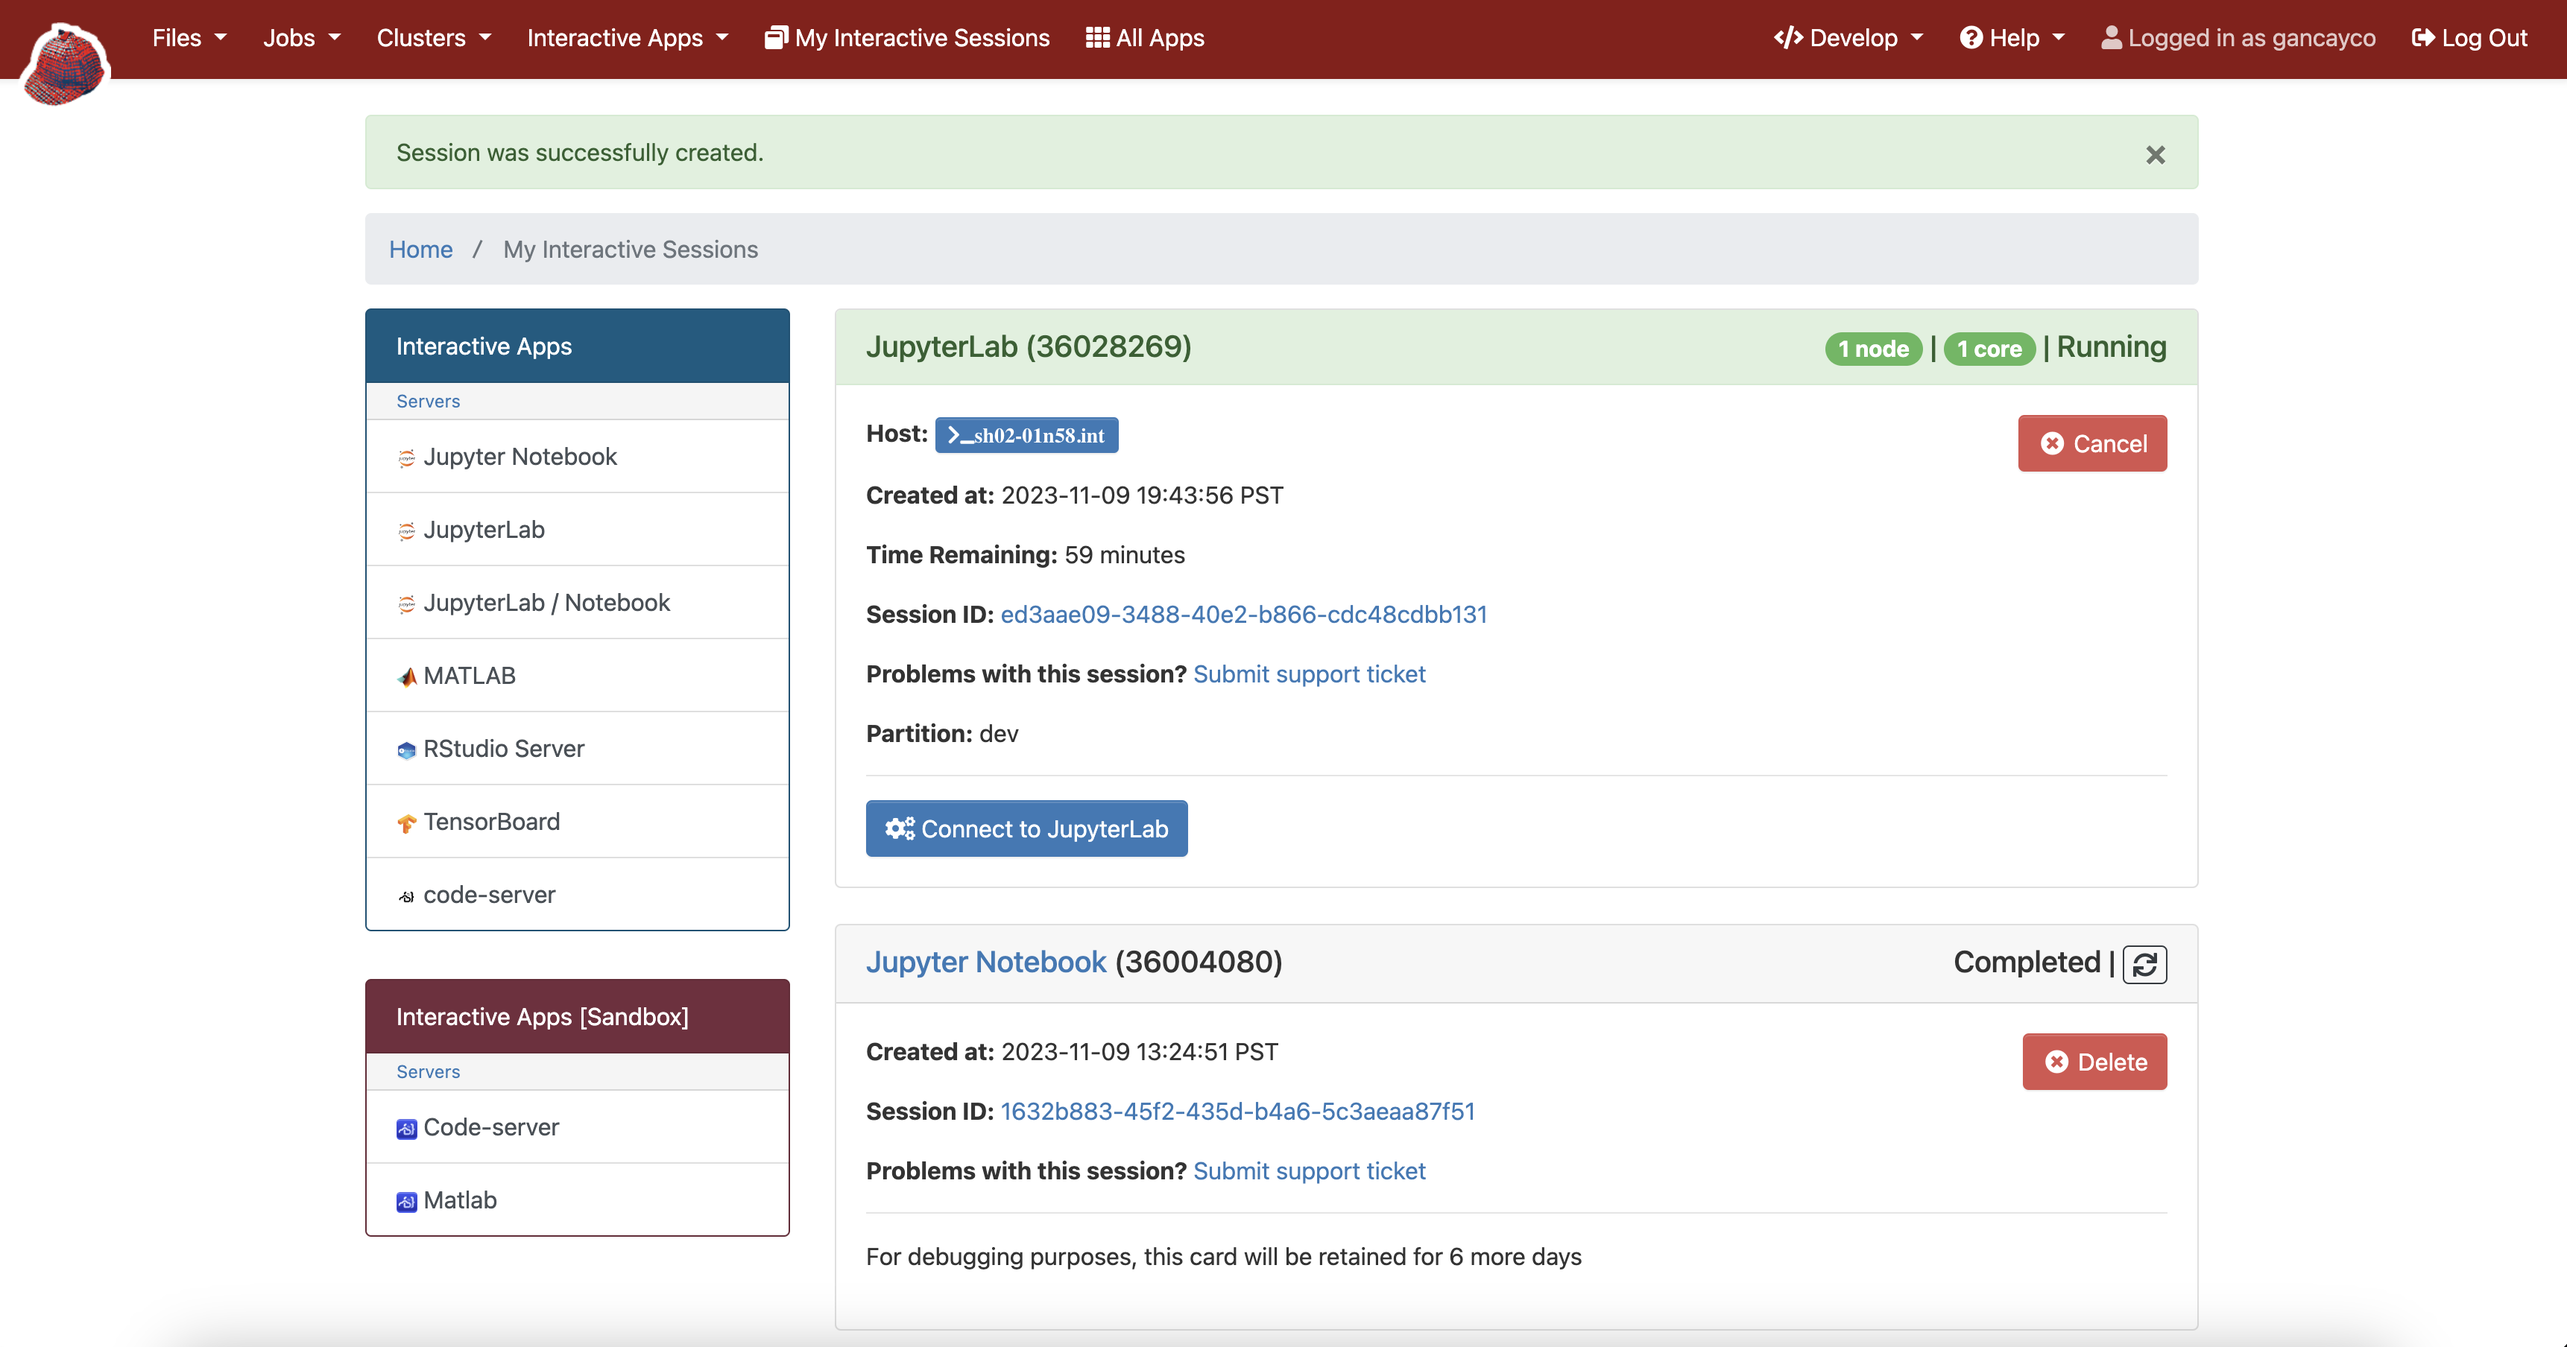
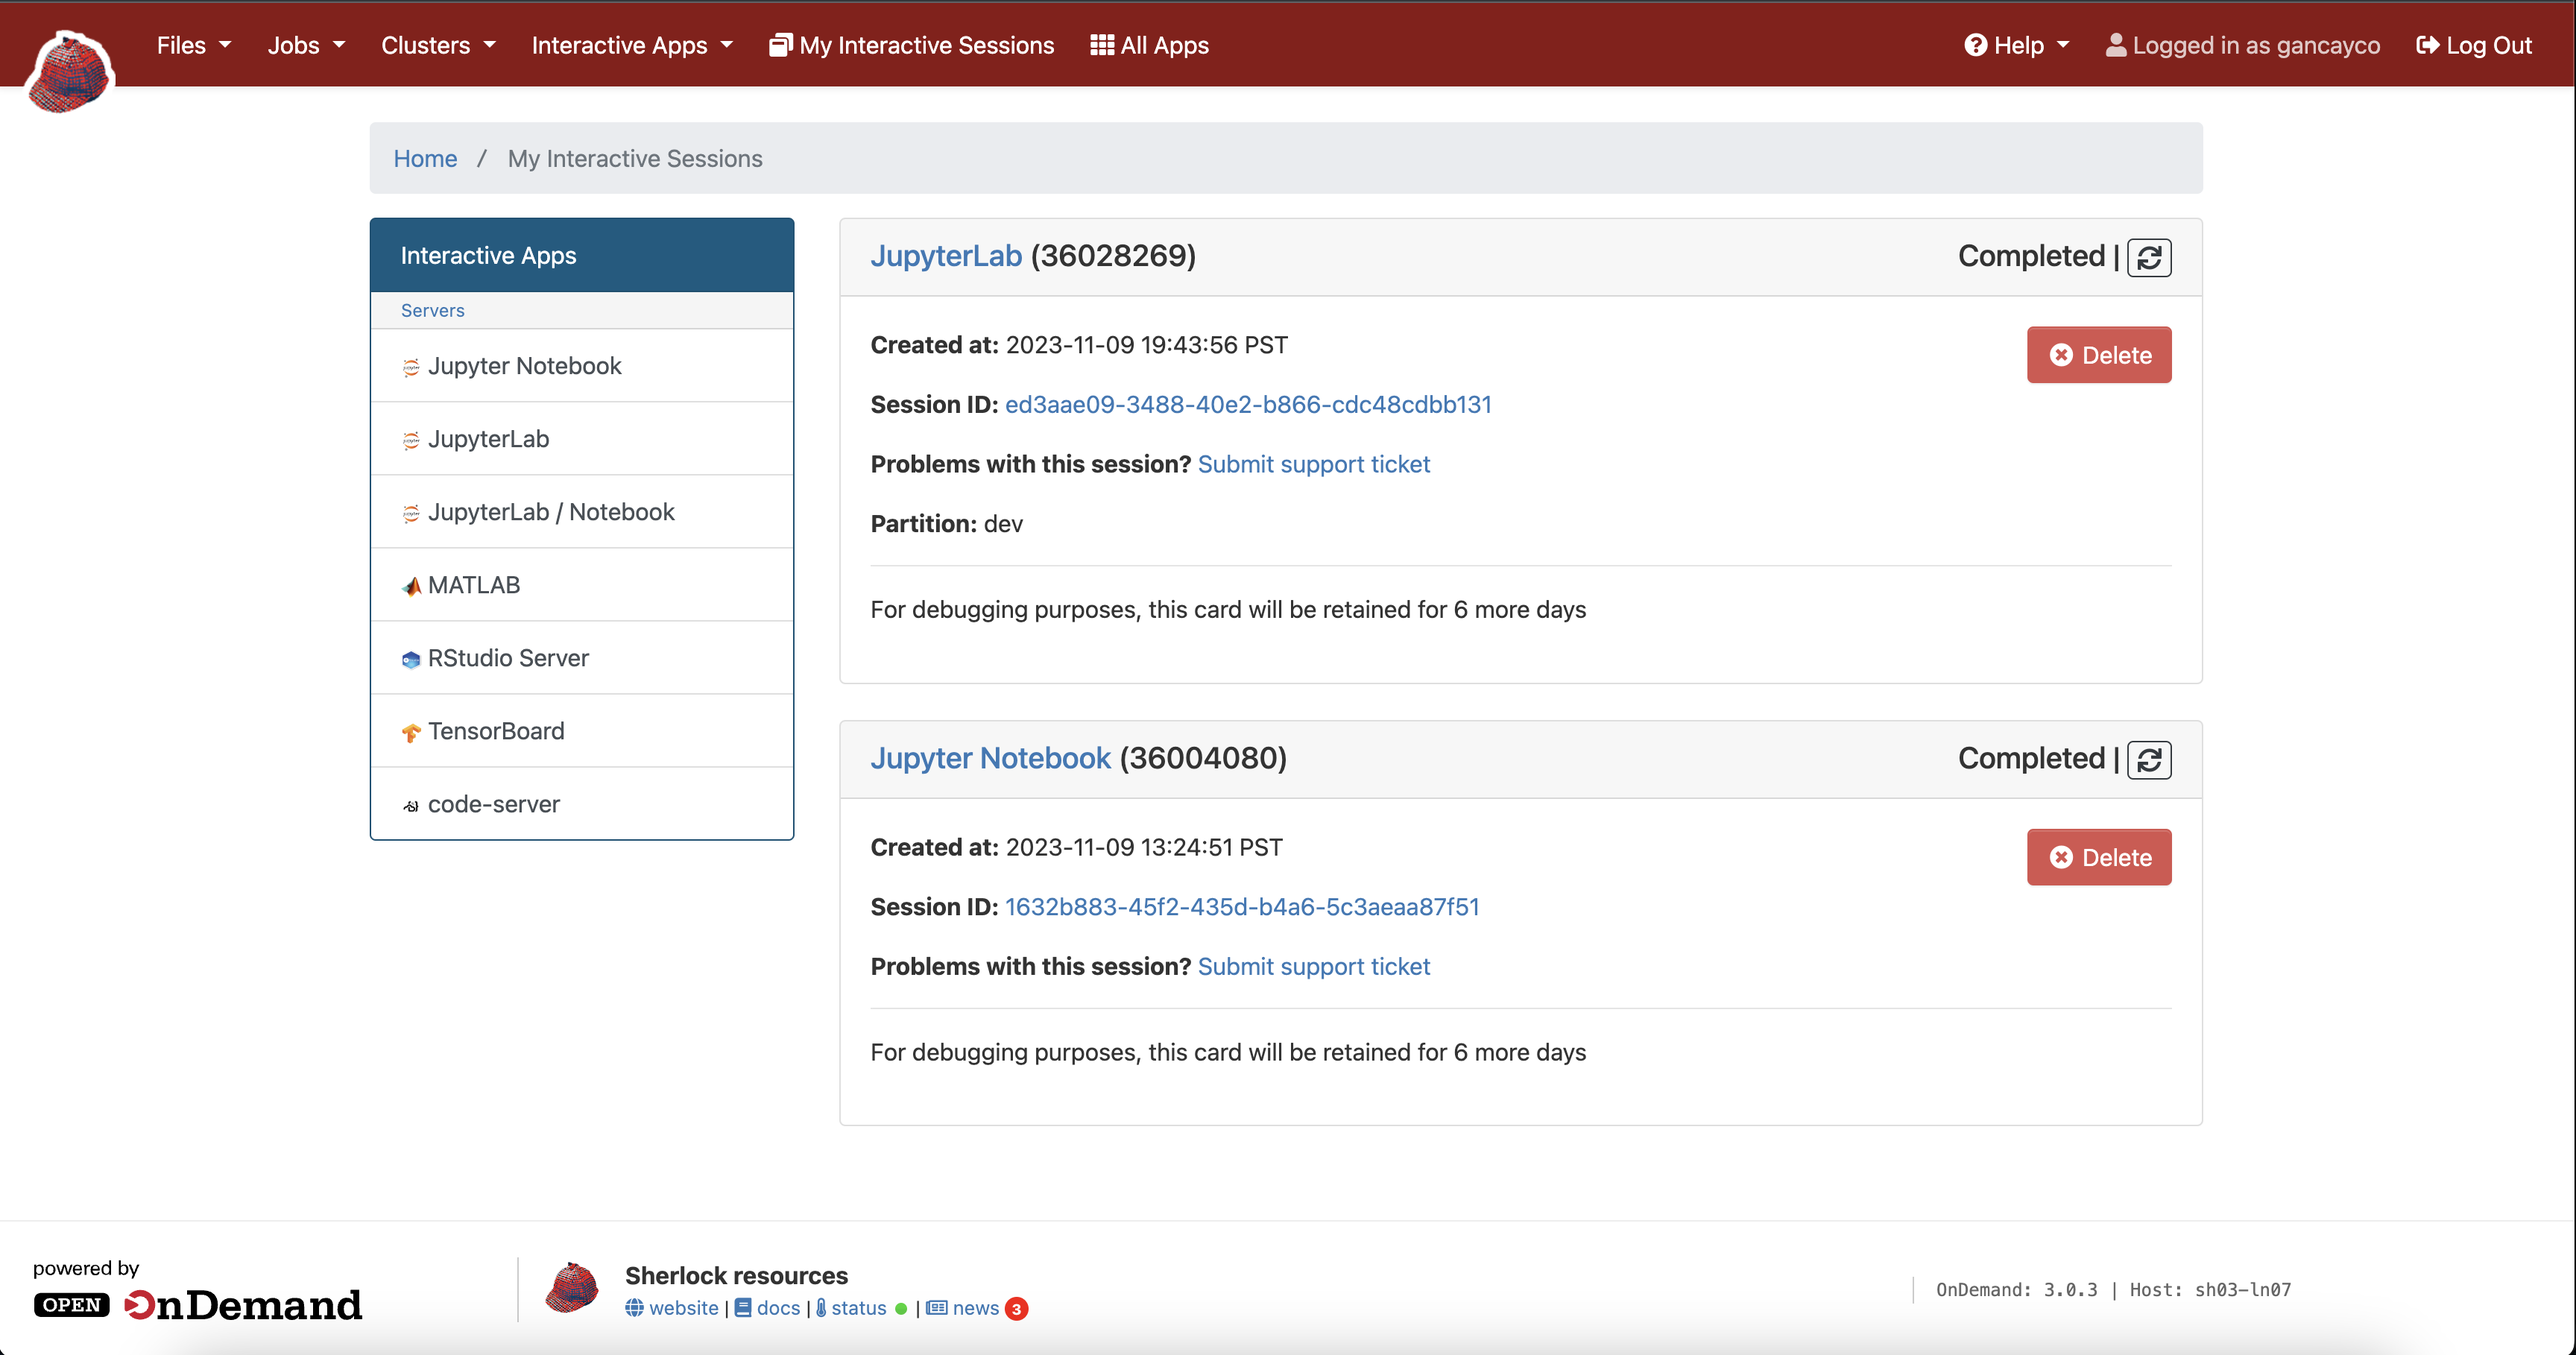
started jupyterlab and matlab ood documentation

diff --git a/src/docs/user-guide/ondemand.md b/src/docs/user-guide/ondemand.md
@@ -212,7 +212,7 @@ Sherlock OnDemand.
 !!! warning "Some preliminary setup may be required"
 
     Before running your first Jupyter Notebook with `IJulia`, you'll need to
-    run the following steps (this only need to be done once):
+    run the following steps (this only needs to be done once):
 
     ```
     $ ml julia
@@ -248,7 +248,7 @@ To start a Jupyter session from Sherlock OnDemand:
    Clusters.
    ![ood_jup_notebook](images/ood_jup_notebook.png)
 
-   By default, you are in the **Files** tab, that displays the contents of your
+   By default, you are in the **Files** tab; that displays the contents of your
    `$HOME` directory on Sherlock. You can navigate through your files there.
 
    Under the **Running** tab, you will see the list of all the notebooks or
@@ -256,7 +256,7 @@ To start a Jupyter session from Sherlock OnDemand:
 
 6. You can now start a Jupyter Notebook:
 
-    1. To open an exiting Jupyter Notebook, which is already stored on
+    1. To open an existing Jupyter Notebook, which is already stored on
        Sherlock, navigate to its location in the **Files** tab and click on its
        name. A new window running the notebook will open.
     2. To create a new Jupyter Notebook, click on the **New** button at the top
@@ -266,9 +266,54 @@ To start a Jupyter session from Sherlock OnDemand:
 To terminate your Jupyter Notebook session, go back to the Dashboard, and click
 on the **My Interactive Sessions** in the top menu. This will bring you to a
 page listing all your currently active interactive session. Identify the one
-you'd like to terminate and click on the red **Delete** button.
+you'd like to terminate and click on the red *Cancel** button.
 
+### JupyterLab
 
+To run JupyterLab via Sherlock OnDemand:
+
+1. Select **Interactive Apps > JupyterLab** from the top menu in the
+   Dashboard page.
+   
+2. In the screen that opens, specify the different parameters for your job
+   (time limit, number of nodes, CPUs, partition to use, etc.). You can also
+   choose to be notified by email when your session starts.
+   
+3. Click the blue **Launch** button to start your JupyterLab session. You may 
+   have to wait in the queue for resources to become available.
+   
+4. When your session starts, click the blue **Connect to JupyterLab**
+   button. A new window opens with the JupyterLab interface.
+   
+5. The first time you connect to JupyterLab via Sherlock OnDemand, you'll see 
+   2 tabs: Files and Launcher. 
+   
+   ![ood_juplab](images/ood_juplab.png)
+   
+   The **Files** tab displays the contents of your `$HOME` directory on Sherlock.
+   You can navigate through your files there.
+   
+   In the Launcher tab, you will have the option to create a new Jupyter Notebook
+   by clicking the tile showing the kernel of your choice under **Notebook**. or start a new Console session by clicking the tile showing the kernel of your
+   choice. You can also open the Terminal or a text editor for a variety of file
+   types by clicking the corresponding tile
+
+### MATLAB
+
+To run MATLAB via Sherlock OnDemand:
+
+1. Select **Interactive Apps > MATLAB** from the top menu in the
+   Dashboard page.
+   
+2. In the screen that opens, specify the different parameters for your job
+   (time limit, number of nodes, CPUs, partition to use, etc.). You can also
+   choose to be notified by email when your session starts.
+   
+3. Click the blue **Launch** button to start your MATLAB session. You may 
+   have to wait in the queue for resources to become available.
+   
+4. When your session starts, click the blue **Connect to MATLAB**
+   button. A new window opens with the JupyterLab interface.
 
 ### RStudio
 
@@ -374,6 +419,8 @@ To submit a ticket about your current or recent interactive session:
    header. Click that card's **Submit support ticket** link to open the Support
    Ticket form.
    
+![ood_sess_support](images/ood_sess_support.png)
+   
 3. Complete the Support Ticket form. When applicable, please provide:
 
        - the full path to any files involved in your question or problem, 
@@ -385,7 +432,7 @@ To submit a ticket about your current or recent interactive session:
 4. Click the blue **Submit support ticket** form. Research Computing support will 
    respond to you as soon as we are able.
    
-![ood_support](images/ood_support.png)
+
 
 
 [comment]: #  (link URLs -----------------------------------------------------)
